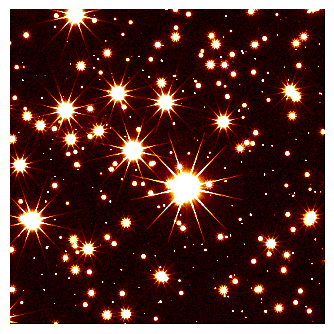
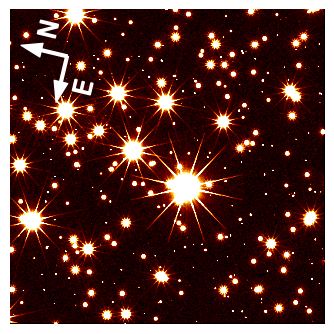
update example

Changed region(s): [[0.0599, 0.0599, 0.2994, 0.2994]]

diff --git a/README.md b/README.md
@@ -32,12 +32,6 @@ Options:
   --help                    Show this message and exit.
 ```
 
-```shell
-stpreview by /grp/roman/TEST_DATA/23Q4_B11/aligntest/r0000501001001001001_01101_0001_WFI01_cal.asdf docs/images/by.png 10 10
-```
-
-![by](./docs/images/by.png)
-
 #### `stpreview to`
 
 ```
@@ -60,6 +54,18 @@ Options:
                             [default: no-compass]
   --help                    Show this message and exit.
 ```
+
+### Examples
+
+##### downsample a sample Roman image by a factor of 10, and add a compass rose
+
+```shell
+stpreview by /grp/roman/TEST_DATA/23Q4_B11/aligntest/r0000501001001001001_01101_0001_WFI01_cal.asdf docs/images/by.png 10 10 --compass
+```
+
+![by](./docs/images/by.png)
+
+##### downsample a sample Roman image to within 300x300 pixels
 
 ```shell
 stpreview to /grp/roman/TEST_DATA/23Q4_B11/aligntest/r0000501001001001001_01101_0001_WFI01_cal.asdf docs/images/to.png 300 300 roman
